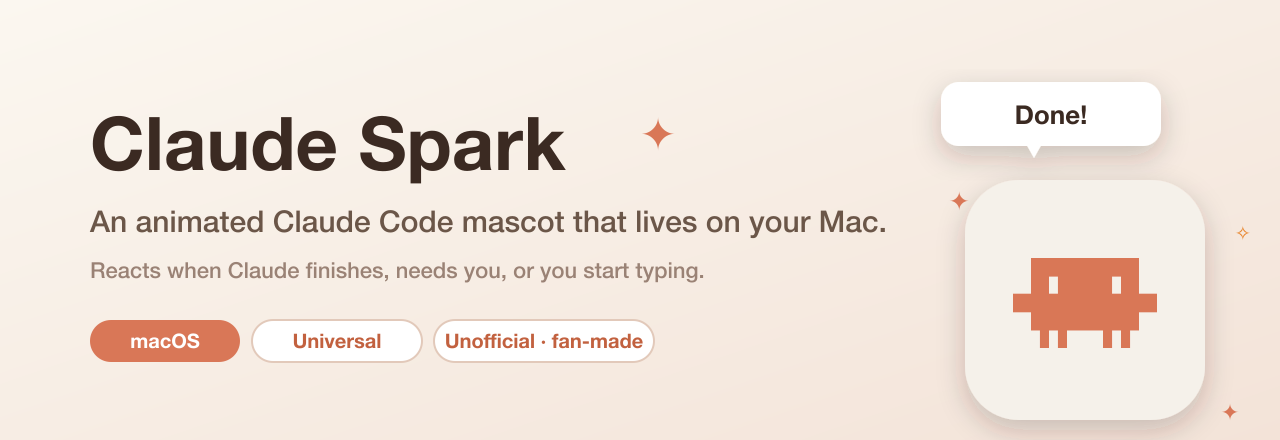
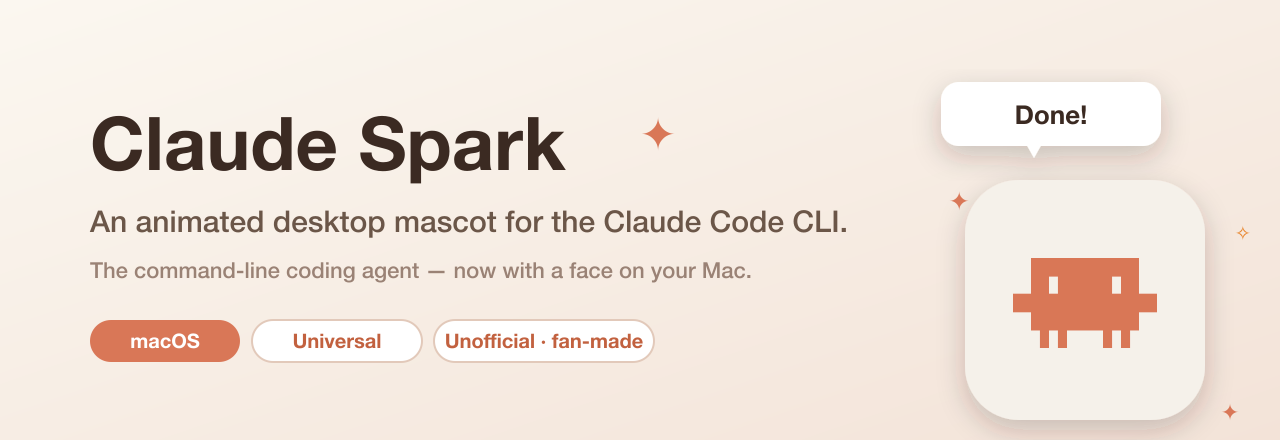
Clarify README: Claude Spark is for the Claude Code CLI
Reword hero banner + tagline, add a "for Claude Code CLI" badge, and make
the intro state plainly that Claude Code is Anthropic's command-line agent.

Changed region(s): [[0.0625, 0.5909, 0.5938, 0.65], [0.2188, 0.4727, 0.6875, 0.5318]]

diff --git a/README.md b/README.md
@@ -5,12 +5,17 @@
 <h1 align="center">Claude Spark&nbsp;✦</h1>
 
 <p align="center">
-  <strong>An animated Claude&nbsp;Code mascot that lives on your macOS desktop.</strong><br>
-  It floats in the corner, reacts when Claude finishes, needs you, or you start typing — and heats up the faster you type.
+  <strong>An animated desktop mascot for the Claude&nbsp;Code CLI (command-line interface).</strong><br>
+  It floats in the corner of your Mac and reacts when Claude finishes, needs you, or you start typing — and heats up the faster you type.
+</p>
+
+<p align="center">
+  <sub>🖥️ Built for <a href="https://docs.claude.com/en/docs/claude-code">Claude&nbsp;Code</a> — Anthropic's <strong>command-line</strong> coding agent that runs in your terminal. Claude Spark is a companion <em>for</em> the CLI; it isn't a GUI or browser extension.</sub>
 </p>
 
 <p align="center">
   <a href="https://github.com/jeremyperson/claude-spark/releases/latest"><img alt="Release" src="https://img.shields.io/github/v/release/jeremyperson/claude-spark?color=D97757&label=release"></a>
+  <img alt="For" src="https://img.shields.io/badge/for-Claude%20Code%20CLI-D97757">
   <img alt="Platform" src="https://img.shields.io/badge/platform-macOS%2011%2B-555">
   <img alt="Arch" src="https://img.shields.io/badge/arch-universal%20(Intel%20%2B%20Apple%20Silicon)-555">
   <a href="LICENSE"><img alt="License" src="https://img.shields.io/badge/license-MIT-blue"></a>
@@ -27,7 +32,7 @@
 
 ## What is Claude Spark?
 
-Claude&nbsp;Code does its work in the terminal — but your eyes aren't always on it. **Claude Spark** is a tiny, charming desktop companion that gives Claude&nbsp;Code an ambient, at-a-glance presence on your Mac.
+[**Claude&nbsp;Code**](https://docs.claude.com/en/docs/claude-code) is Anthropic's **command-line interface (CLI)** for Claude — an AI coding agent you run in your terminal. It does its work in the terminal, but your eyes aren't always on it. **Claude Spark** is a tiny, charming desktop companion that gives the Claude&nbsp;Code CLI an ambient, at-a-glance presence on your Mac.
 
 It's a transparent, always-on-top, click-through window showing the Claude&nbsp;Code mark on a soft cream card. It bobs and blinks while idle, then **animates in response to what Claude&nbsp;Code is actually doing** — driven by Claude&nbsp;Code's [hook system](https://docs.claude.com/en/docs/claude-code/hooks). No more wondering whether that long task finished or whether Claude is quietly waiting for your approval.
 